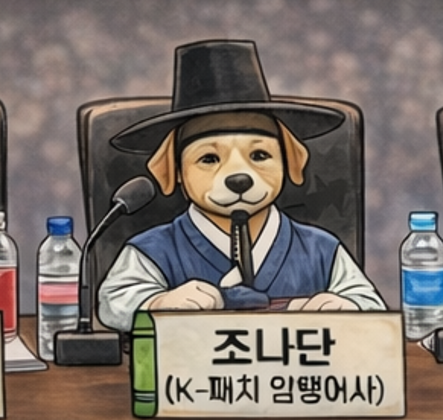
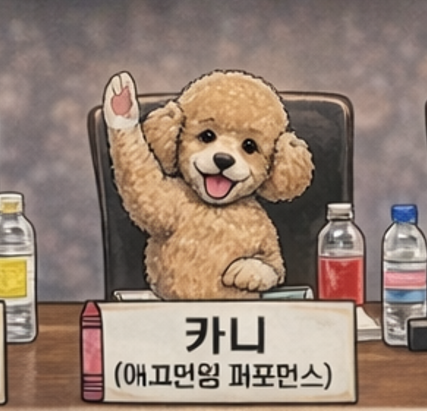
feat: 백엔드에서 넘어온 심사위원 결과 데이터를 프론트에서 출력하도록 연결 (!84)
* feat: 백엔드에서 넘어온 심사위원 결과 데이터를 프론트에서 출력하도록 연결

- 프로필 이미지 파일 번호 수정

diff --git a/src/components/game/phases/JudgeResultPhase.tsx b/src/components/game/phases/JudgeResultPhase.tsx
@@ -1,62 +1,20 @@
-import { useEffect, useState, useRef } from 'react';
+import { useEffect, useState, useMemo } from 'react';
 import { createPortal } from 'react-dom';
 import ChatArea from '../ChatArea';
 import { useGameStore } from '@/store/useGameStore';
+import { getResultJudgeImage } from '@/lib/judgeMapper'; // 이미지 매퍼
 
+// 배경 및 로고 이미지
 import bgImg from '@/assets/background.png';
 import resultLogo from '@/assets/logo/resultlogo.png';
 import finalLogo from '@/assets/logo/finallogo.png';
-import ateam from '@/assets/logo/A.png';
-import bteam from '@/assets/logo/B.png';
-import airesult from '@/assets/logo/AIresult.png';
-import Ateam from '@/assets/logo/Ateam.png';
-import Bteam from '@/assets/logo/Bteam.png';
+import ateamImg from '@/assets/logo/A.png';
+import bteamImg from '@/assets/logo/B.png';
+import airesultImg from '@/assets/logo/AIresult.png';
+import AteamLogo from '@/assets/logo/Ateam.png';
+import BteamLogo from '@/assets/logo/Bteam.png';
 import teamALogo from '@/assets/logo/Ateamresult.png';
 import teamBLogo from '@/assets/logo/Bteamresult.png';
-
-// 심사위원 이미지 import
-import judge1 from '@/assets/judge/result/1.png';
-import judge2 from '@/assets/judge/result/2.png';
-import judge3 from '@/assets/judge/result/3.png';
-import judge4 from '@/assets/judge/result/4.png';
-import judge5 from '@/assets/judge/result/5.png';
-import judge6 from '@/assets/judge/result/6.png';
-import judge7 from '@/assets/judge/result/7.png';
-import judge8 from '@/assets/judge/result/8.png';
-import judge9 from '@/assets/judge/result/9.png';
-import judge10 from '@/assets/judge/result/10.png';
-import judge11 from '@/assets/judge/result/11.png';
-import judge12 from '@/assets/judge/result/12.png';
-
-interface Judge {
-  id: number;
-  name: string;
-  image: string;
-  commentA: string;
-  commentB: string;
-}
-
-import type { VoteResult } from '@/types/game';
-
-const MASTER_DB: Judge[] = [
-  { id: 1, name: 'AI 판독기 V1', image: judge1, commentA: "창의적이야! (멍!)", commentB: "데이터 부족. (왈!)" },
-  { id: 2, name: '멍성재 2.0', image: judge2, commentA: "완벽한 개소리!", commentB: "너무 논리적이야. 탈락." },
-  { id: 3, name: '팩트사망 로봇', image: judge3, commentA: "팩트 0%? 훌륭해.", commentB: "팩트가 섞였어. 불순해." },
-  { id: 4, name: '엄근진 햄스터', image: judge4, commentA: "볼주머니 저장각.", commentB: "해바라기씨 압수." },
-  { id: 5, name: '개소리 소믈리에', image: judge5, commentA: "1등급 똥오줌 향기.", commentB: "숙성이 덜 됐어." },
-  { id: 6, name: '논리 파괴자', image: judge6, commentA: "뇌가 녹는다... 합격!", commentB: "말이 되잖아? 재미없어." },
-  { id: 7, name: '왈왈 박사', image: judge7, commentA: "학계에 보고하겠네.", commentB: "공부 더 해오게." },
-  { id: 8, name: '사오정 귀', image: judge8, commentA: "뭐라고? 안들려! 합격!", commentB: "너무 잘 들려. 감점." },
-  { id: 9, name: '투머치 토커', image: judge9, commentA: "진짜가 나타났다.", commentB: "말이 짧아. 더 짖어." },
-  { id: 10, name: '단호박 판사', image: judge10, commentA: "인정. 땅땅땅!", commentB: "기각한다." },
-  { id: 11, name: '꿈꾸는 강아지', image: judge11, commentA: "꿈결 같구나...", commentB: "잠이 확 깨네." },
-  { id: 12, name: '알고리즘 신', image: judge12, commentA: "알고리즘의 선택.", commentB: "노출수 떡락 예상." },
-];
-
-const MOCK_RESULT = {
-  teamA: { name: 'A팀', public: 45, ai: [15, 20, 25] },
-  teamB: { name: 'B팀', public: 38, ai: [10, 25, 30] },
-};
 
 const WIN_MENTS = [
   "${teamName} 승리! 뇌를 거치지 않고 뱉는 주둥이, 짐승 그 자체군요!",
@@ -67,56 +25,89 @@ const WIN_MENTS = [
 ];
 
 const JudgeResultPhase = () => {
-  const [resultData, setResultData] = useState<VoteResult | null>(null);
-  const [selectedJudges] = useState<Judge[]>(() => {
-    const savedData = localStorage.getItem('SELECTED_JUDGES_V2');
-    if (savedData) return JSON.parse(savedData);
-    const picked = [...MASTER_DB].sort(() => 0.5 - Math.random()).slice(0, 3);
-    localStorage.setItem('SELECTED_JUDGES_V2', JSON.stringify(picked));
-    return picked;
-  });
+  // 1. Store에서 투표 결과(voteResult)와 게임 정보(roundData) 둘 다 가져옴
+  const { voteResult, roundData } = useGameStore();
 
   const [introPhase, setIntroPhase] = useState(1);
   const [finalMent, setFinalMent] = useState("");
   const [animScore, setAnimScore] = useState(0);
   const [particles, setParticles] = useState<{ id: number; x: number; y: number; rot: number }[]>([]);
 
+  // 게이지 애니메이션용 상태
   const [stagePublicA, setStagePublicA] = useState(0);
   const [stagePublicB, setStagePublicB] = useState(0);
   const [stageAIA, setStageAIA] = useState(0);
   const [stageAIB, setStageAIB] = useState(0);
 
-  const aiTotalA = MOCK_RESULT.teamA.ai.reduce((a, b) => a + b, 0);
-  const aiTotalB = MOCK_RESULT.teamB.ai.reduce((a, b) => a + b, 0);
-  const totalA = MOCK_RESULT.teamA.public + aiTotalA;
-  const totalB = MOCK_RESULT.teamB.public + aiTotalB;
+  // 2. 서버 데이터 매칭 (⭐ 인덱스 매핑으로 최적화)
+  const realJudges = useMemo(() => {
+    // 데이터가 없으면 빈 배열
+    if (!voteResult?.aiJudges || !roundData?.judgeIds) return [];
 
+    // ⭐ 수정됨: 이름을 찾지 않고, 순서(index)대로 바로 매칭합니다.
+    return voteResult.aiJudges.map((serverJudge, index) => {
+      // roundData.judgeIds는 [{id: 11, ...}, {id: 9, ...}, ...] 순서가 보장됨
+      const originJudge = (roundData.judgeIds as any[])[index];
+      const judgeId = originJudge ? originJudge.id : 1; // 안전장치
+      // console.log('매칭된 심사위원:', roundData.judgeIds, judgeId, serverJudge);
+      return {
+        id: judgeId,
+        name: serverJudge.judgeName,
+        // ID로 바로 이미지 가져오기
+        image: getResultJudgeImage(judgeId),
+        commentA: serverJudge.commentA,
+        commentB: serverJudge.commentB,
+        scoreA: serverJudge.scoreTeamA || 0,
+        scoreB: serverJudge.scoreTeamB || 0,
+      };
+    });
+  }, [voteResult, roundData]);
+
+  // 3. 점수 계산
+  const publicA = voteResult?.votesTeamA || 0;
+  const publicB = voteResult?.votesTeamB || 0;
+  
+  const aiTotalA = realJudges.reduce((acc, cur) => acc + cur.scoreA, 0);
+  const aiTotalB = realJudges.reduce((acc, cur) => acc + cur.scoreB, 0);
+  
+  const totalA = publicA + aiTotalA;
+  const totalB = publicB + aiTotalB;
+  
+  const winnerName = (voteResult?.winner === 'A' ? 'A팀' : voteResult?.winner === 'B' ? 'B팀' : (totalA > totalB ? 'A팀' : 'B팀'));
+
+  // 4. 페이즈 타이머
   useEffect(() => {
+    if (!voteResult) return;
+
     const timers = [
-      setTimeout(() => setIntroPhase(2), 2000),   // Start Phase 2 (A Score)
-      setTimeout(() => setIntroPhase(3), 6000),   // Start Phase 3 (B Score) -> 4s (Fast)
-      setTimeout(() => setIntroPhase(4), 10000),  // Start Phase 4 (Main Stage Gauge) -> 7s (Slow & Tensor)
-      setTimeout(() => setIntroPhase(5), 17000),  // Start Phase 5 (A AI)
-      setTimeout(() => setIntroPhase(6), 22000),  // Start Phase 6 (B AI)
-      setTimeout(() => setIntroPhase(7), 27000),  // Start Phase 7 (Total Gauge) -> 7s (Slow & Tensor)
+      setTimeout(() => setIntroPhase(2), 2000),   // A팀 관객 점수
+      setTimeout(() => setIntroPhase(3), 6000),   // B팀 관객 점수
+      setTimeout(() => setIntroPhase(4), 10000),  // 1차 합산
+      setTimeout(() => setIntroPhase(5), 17000),  // A팀 AI 심사
+      setTimeout(() => setIntroPhase(6), 22000),  // B팀 AI 심사
+      setTimeout(() => setIntroPhase(7), 27000),  // 최종 합산
       setTimeout(() => {
-        setIntroPhase(8); // Start Phase 8 (Game Over)
-        const winner = totalA > totalB ? 'A팀' : 'B팀';
-        setFinalMent(WIN_MENTS[Math.floor(Math.random() * WIN_MENTS.length)].replace('${teamName}', winner));
+        setIntroPhase(8); // 최종 결과
+        setFinalMent(WIN_MENTS[Math.floor(Math.random() * WIN_MENTS.length)].replace('${teamName}', winnerName));
       }, 34000),
     ];
     return () => timers.forEach(t => clearTimeout(t));
-  }, [totalA, totalB]);
+  }, [voteResult, winnerName]);
 
+  // 5. 점수 카운팅 애니메이션
   useEffect(() => {
     if (introPhase !== 2 && introPhase !== 3) return;
+    
     let current = 0;
-    const target = introPhase === 2 ? MOCK_RESULT.teamA.public : MOCK_RESULT.teamB.public;
+    const target = introPhase === 2 ? publicA : publicB;
+    
     setAnimScore(0);
     const interval = setInterval(() => {
       if (current < target) {
-        current++;
+        const step = Math.ceil(target / 50) || 1;
+        current = Math.min(current + step, target);
         setAnimScore(current);
+        
         const newParticle = { id: Math.random(), x: Math.random() * 100, y: Math.random() * 100, rot: Math.random() * 360 };
         setParticles(prev => [...prev.slice(-20), newParticle]);
       } else {
@@ -124,15 +115,16 @@ const JudgeResultPhase = () => {
       }
     }, 30);
     return () => clearInterval(interval);
-  }, [introPhase]);
+  }, [introPhase, publicA, publicB]);
 
+  // 6. 게이지 애니메이션
   useEffect(() => {
     if (introPhase === 4) {
       let curA = 0, curB = 0;
       const interval = setInterval(() => {
         let done = true;
-        if (curA < MOCK_RESULT.teamA.public) { curA++; done = false; }
-        if (curB < MOCK_RESULT.teamB.public) { curB++; done = false; }
+        if (curA < publicA) { curA += Math.ceil(publicA / 50) || 1; if(curA > publicA) curA = publicA; done = false; }
+        if (curB < publicB) { curB += Math.ceil(publicB / 50) || 1; if(curB > publicB) curB = publicB; done = false; }
         setStagePublicA(curA);
         setStagePublicB(curB);
         if (done) clearInterval(interval);
@@ -140,27 +132,20 @@ const JudgeResultPhase = () => {
       return () => clearInterval(interval);
     }
     if (introPhase === 7) {
-      let aiA = 0, aiB = 0;
+      let curAiA = 0, curAiB = 0;
       const interval = setInterval(() => {
         let done = true;
-        if (aiA < aiTotalA) { aiA++; done = false; }
-        if (aiB < aiTotalB) { aiB++; done = false; }
-        setStageAIA(aiA);
-        setStageAIB(aiB);
+        if (curAiA < aiTotalA) { curAiA += Math.ceil(aiTotalA / 50) || 1; if(curAiA > aiTotalA) curAiA = aiTotalA; done = false; }
+        if (curAiB < aiTotalB) { curAiB += Math.ceil(aiTotalB / 50) || 1; if(curAiB > aiTotalB) curAiB = aiTotalB; done = false; }
+        setStageAIA(curAiA);
+        setStageAIB(curAiB);
         if (done) clearInterval(interval);
       }, 40);
       return () => clearInterval(interval);
     }
-  }, [introPhase, aiTotalA, aiTotalB]);
+  }, [introPhase, publicA, publicB, aiTotalA, aiTotalB]);
 
-  const { voteResult } = useGameStore();
-
-  useEffect(() => {
-    if (voteResult) {
-      console.log("📊 [JudgeResultPhase] 스토어의 결과 데이터 사용:", voteResult);
-      setResultData(voteResult);
-    }
-  }, [voteResult]);
+  if (!voteResult) return null;
 
   return createPortal(
     <div style={{
@@ -175,7 +160,6 @@ const JudgeResultPhase = () => {
         @keyframes slide-in-left { 0% { transform: translateX(-100%) scale(0.5); opacity: 0; } 100% { transform: translateX(0) scale(1); opacity: 1; } }
         @keyframes zoom-in-judge { 0% { transform: scale(0.5); opacity: 0; } 100% { transform: scale(1); opacity: 1; } }
         @keyframes pop-comment { 0% { transform: scale(0); opacity: 0; } 70% { transform: scale(1.2); opacity: 1; } 100% { transform: scale(1); opacity: 1; } }
-
 
         .particle-full { position: absolute; color: #facc15; font-size: 3rem; font-weight: 900; animation: full-screen-pop 0.4s forwards; text-shadow: 4px 4px 0 #000; z-index: 11000; }
         .intro-overlay { position: fixed; top: 0; left: 0; width: calc(100% - 380px); height: 100%; z-index: 10000; display: flex; flex-direction: column; align-items: center; justify-content: center; background: #000; transition: 0.5s; }
@@ -203,7 +187,7 @@ const JudgeResultPhase = () => {
         {(introPhase === 2 || introPhase === 3) && (
           <div key={`phase-${introPhase}`} style={{ textAlign: 'center', animation: introPhase === 2 ? 'slide-in-left 0.5s both' : 'slide-in-right 0.5s both' }}>
             <div style={{ marginBottom: '-30px' }}>
-              <img src={introPhase === 2 ? Ateam : Bteam} style={{ width: '650px', objectFit: 'contain', filter: 'drop-shadow(5px 5px 0 #000)' }} />
+              <img src={introPhase === 2 ? AteamLogo : BteamLogo} style={{ width: '650px', objectFit: 'contain', filter: 'drop-shadow(5px 5px 0 #000)' }} />
             </div>
             <div className="score-huge">{animScore}</div>
           </div>
@@ -212,28 +196,27 @@ const JudgeResultPhase = () => {
         {(introPhase === 5 || introPhase === 6) && (
           <div key={`judge-${introPhase}`} style={{ textAlign: 'center', width: '100%', animation: 'zoom-in-judge 0.5s cubic-bezier(0.175, 0.885, 0.32, 1.275) both', display: 'flex', flexDirection: 'column', alignItems: 'center', justifyContent: 'center' }}>
             <div style={{ display: 'flex', alignItems: 'center', gap: '30px', marginBottom: '40px', background: 'rgba(255,255,255,0.1)', padding: '20px 50px', borderRadius: '20px', border: '3px solid #333' }}>
-              <img src={introPhase === 5 ? ateam : bteam} style={{ height: '110px', objectFit: 'contain' }} />
-              <img src={airesult} style={{ height: '220px', objectFit: 'contain' }} />
+              <img src={introPhase === 5 ? ateamImg : bteamImg} style={{ height: '110px', objectFit: 'contain' }} />
+              <img src={airesultImg} style={{ height: '220px', objectFit: 'contain' }} />
             </div>
             <div style={{ display: 'flex', flexDirection: 'row', gap: '15px', justifyContent: 'center', width: '100%' }}>
-              {selectedJudges.map((j, i) => {
-                const pScore = introPhase === 5 ? MOCK_RESULT.teamA.ai[i] : MOCK_RESULT.teamB.ai[i];
+              {realJudges.map((j, i) => {
+                const pScore = introPhase === 5 ? j.scoreA : j.scoreB;
+                const pComment = introPhase === 5 ? j.commentA : j.commentB;
                 return (
                   <div key={i} style={{
                     display: 'flex', flexDirection: 'column', alignItems: 'center', gap: '10px',
                     background: '#fff', padding: '20px', borderRadius: '20px', border: '4px solid #111',
-                    width: '220px',
-                    animation: `slide-in-right 0.4s ${i * 0.15}s both`,
+                    width: '240px', animation: `slide-in-right 0.4s ${i * 0.15}s both`,
                     boxShadow: '10px 10px 0 rgba(0,0,0,0.2)', position: 'relative'
                   }}>
-                    <img src={j.image} style={{ width: '90px', height: '90px', borderRadius: '50%', objectFit: 'cover', border: '3px solid #ddd' }} />
+                    <img src={j.image} style={{ width: '120px', height: '120px', borderRadius: '15px', objectFit: 'cover', border: '3px solid #ddd' }} />
                     <div style={{ textAlign: 'center' }}>
                       <div style={{ fontWeight: 900, fontSize: '1.2rem', color: '#111', marginBottom: '5px' }}>{j.name}</div>
-                      <div style={{ fontSize: '1.1rem', color: '#555', wordBreak: 'keep-all', lineHeight: '1.2', animation: `pop-comment 0.5s ${0.3 + i * 0.2}s both` }}>
-                        "{introPhase === 5 ? j.commentA : j.commentB}"
+                      <div style={{ fontSize: '1.1rem', color: '#555', wordBreak: 'keep-all', lineHeight: '1.3', animation: `pop-comment 0.5s ${0.3 + i * 0.2}s both` }}>
+                        "{pComment}"
                       </div>
                     </div>
-                    {/* Individual Score Badge */}
                     <div style={{
                       position: 'absolute', top: '-15px', right: '-15px',
                       background: '#ff0000', color: '#fff', fontSize: '1.5rem', fontWeight: 900,
@@ -257,8 +240,7 @@ const JudgeResultPhase = () => {
           <div style={{ textAlign: 'center', animation: 'zoom-in-judge 0.5s both', padding: '0 5vw', position: 'relative', marginTop: '15vh' }}>
             <div style={{ fontSize: '7rem', fontWeight: 900, color: '#facc15', marginBottom: '40px', textShadow: '0 0 30px #ff0000' }}>GAME OVER</div>
             <div style={{ fontSize: '3.5rem', background: '#fff', padding: '40px 80px', border: '8px solid #111', borderRadius: '40px', lineHeight: '1.4', transform: 'rotate(-2deg)', boxShadow: '20px 20px 0 #000' }}>{finalMent}</div>
-
-            {/* Stamp Effect */}
+            
             <div style={{
               position: 'absolute', top: '50%', left: '50%', transform: 'translate(-50%, -50%) rotate(-15deg)',
               border: '10px solid #ff0000', color: '#ff0000', padding: '20px 50px', borderRadius: '20px',
@@ -304,15 +286,13 @@ const JudgeResultPhase = () => {
       <div style={{ flex: 1, display: 'flex', padding: '0 0 4vw 4vw', gap: '2vw' }}>
         <div style={{ flex: 1, display: 'flex', flexDirection: 'column', alignItems: 'center', paddingTop: '15vh', justifyContent: 'flex-start', opacity: [4, 7].includes(introPhase) ? 1 : 0, transition: '0.5s' }}>
           <div style={{ display: 'flex', gap: '60px', marginTop: '2vh' }}>
-            {/* A팀 섹션 */}
+            
             <div style={{ textAlign: 'center' }}>
               <img src={teamALogo} style={{ width: '420px', objectFit: 'contain' }} />
-
               <div style={{ display: 'flex', justifyContent: 'space-between', width: '300px', fontWeight: 900, fontSize: '1.5rem', marginBottom: '5px', textShadow: '2px 2px 0 #000' }}>
                 <span style={{ color: '#ffb3b3' }}>관객 {stagePublicA}</span>
                 <span style={{ color: '#ff3333' }}>AI {stageAIA}</span>
               </div>
-
               <div className="gauge-container">
                 <div className="gauge-fill" style={{ width: `${((stagePublicA + stageAIA) / (totalA + totalB || 1)) * 100}%`, background: '#ff4444' }} />
                 <div style={{ position: 'absolute', top: 0, left: 0, height: '100%', width: `${(stagePublicA / (totalA + totalB || 1)) * 100}%`, background: '#ff7f7f', opacity: 0.8 }} />
@@ -321,15 +301,12 @@ const JudgeResultPhase = () => {
 
             <div style={{ fontSize: '5rem', fontWeight: 900, alignSelf: 'center' }}>VS</div>
 
-            {/* B팀 섹션 */}
             <div style={{ textAlign: 'center' }}>
               <img src={teamBLogo} style={{ width: '420px', objectFit: 'contain' }} />
-
               <div style={{ display: 'flex', justifyContent: 'space-between', width: '300px', fontWeight: 900, fontSize: '1.5rem', marginBottom: '5px', textShadow: '2px 2px 0 #000' }}>
                 <span style={{ color: '#99ccff' }}>관객 {stagePublicB}</span>
                 <span style={{ color: '#3385ff' }}>AI {stageAIB}</span>
               </div>
-
               <div className="gauge-container">
                 <div className="gauge-fill" style={{ width: `${((stagePublicB + stageAIB) / (totalA + totalB || 1)) * 100}%`, background: '#3b82f6' }} />
                 <div style={{ position: 'absolute', top: 0, left: 0, height: '100%', width: `${(stagePublicB / (totalA + totalB || 1)) * 100}%`, background: '#7fb2ff', opacity: 0.8 }} />
@@ -337,25 +314,20 @@ const JudgeResultPhase = () => {
             </div>
           </div>
 
-
-          {/* AI 심사위원단 Label added here */}
           <div style={{ fontSize: '1.8rem', fontWeight: 900, color: '#fff', marginTop: '30px', marginBottom: '10px', background: '#333', padding: '5px 30px', borderRadius: '20px', border: '2px solid #fff', boxShadow: '5px 5px 0 #000' }}>
             AI 심사위원단
           </div>
 
           <div style={{ display: 'flex', gap: '20px', justifyContent: 'center' }}>
-            {selectedJudges.map((j, i) => (
+            {realJudges.map((j, i) => (
               <div key={i} className="judge-card-mini" style={{ animation: `elastic-zoomies 0.5s ${i * 0.1}s both` }}>
                 <img src={j.image} style={{ width: '70px', height: '70px', borderRadius: '50%', objectFit: 'cover', border: '2px solid #ddd', marginBottom: '5px' }} />
                 <div style={{ fontWeight: 900 }}>{j.name}</div>
               </div>
             ))}
           </div>
-
-
         </div>
 
-        {/* Floating Play Again Button */}
         {introPhase === 7 && (
           <button
             onClick={() => window.location.reload()}

diff --git a/src/lib/judgeMapper.ts b/src/lib/judgeMapper.ts
@@ -1,4 +1,4 @@
-const rawImages = import.meta.glob('@/assets/judge/profile/*.{png,jpg,jpeg}', { eager: true, query: '?url', import: 'default' }) as Record<string, string>;
+const rawImages = import.meta.glob('@/assets/judge/profile/*.{png,jpg,jpeg,webp}', { eager: true, query: '?url', import: 'default' }) as Record<string, string>;
 
 const sortedImageUrls = Object.entries(rawImages)
     .filter(([path]) => /judge\d+\.(png|jpg|jpeg)$/i.test(path))
@@ -12,4 +12,21 @@ const sortedImageUrls = Object.entries(rawImages)
 export const getJudgeImage = (judgeId: number): string => {
     // judgeId가 1부터 시작한다고 가정 (0번 인덱스 = ID 1)
     return sortedImageUrls[judgeId - 1] || ''; 
+};
+
+// --- ✨ [신규] 결과 화면용 로직 추가 ---
+const rawResultImages = import.meta.glob('@/assets/judge/result/*.{png,jpg,jpeg,webp}', { eager: true, query: '?url', import: 'default' }) as Record<string, string>;
+
+const sortedResultUrls = Object.entries(rawResultImages)
+    // 경로에서 숫자만 추출 (예: "1.png" -> "1")
+    .sort((a, b) => {
+        const numA = parseInt(a[0].match(/(\d+)\./)?.[1] || '0', 10);
+        const numB = parseInt(b[0].match(/(\d+)\./)?.[1] || '0', 10);
+        return numA - numB;
+    })
+    .map(([_, url]) => url);
+
+export const getResultJudgeImage = (judgeId: number): string => {
+    // 1.png가 ID 1번이라면 -1 인덱스 사용
+    return sortedResultUrls[judgeId - 1] || '';
 };
